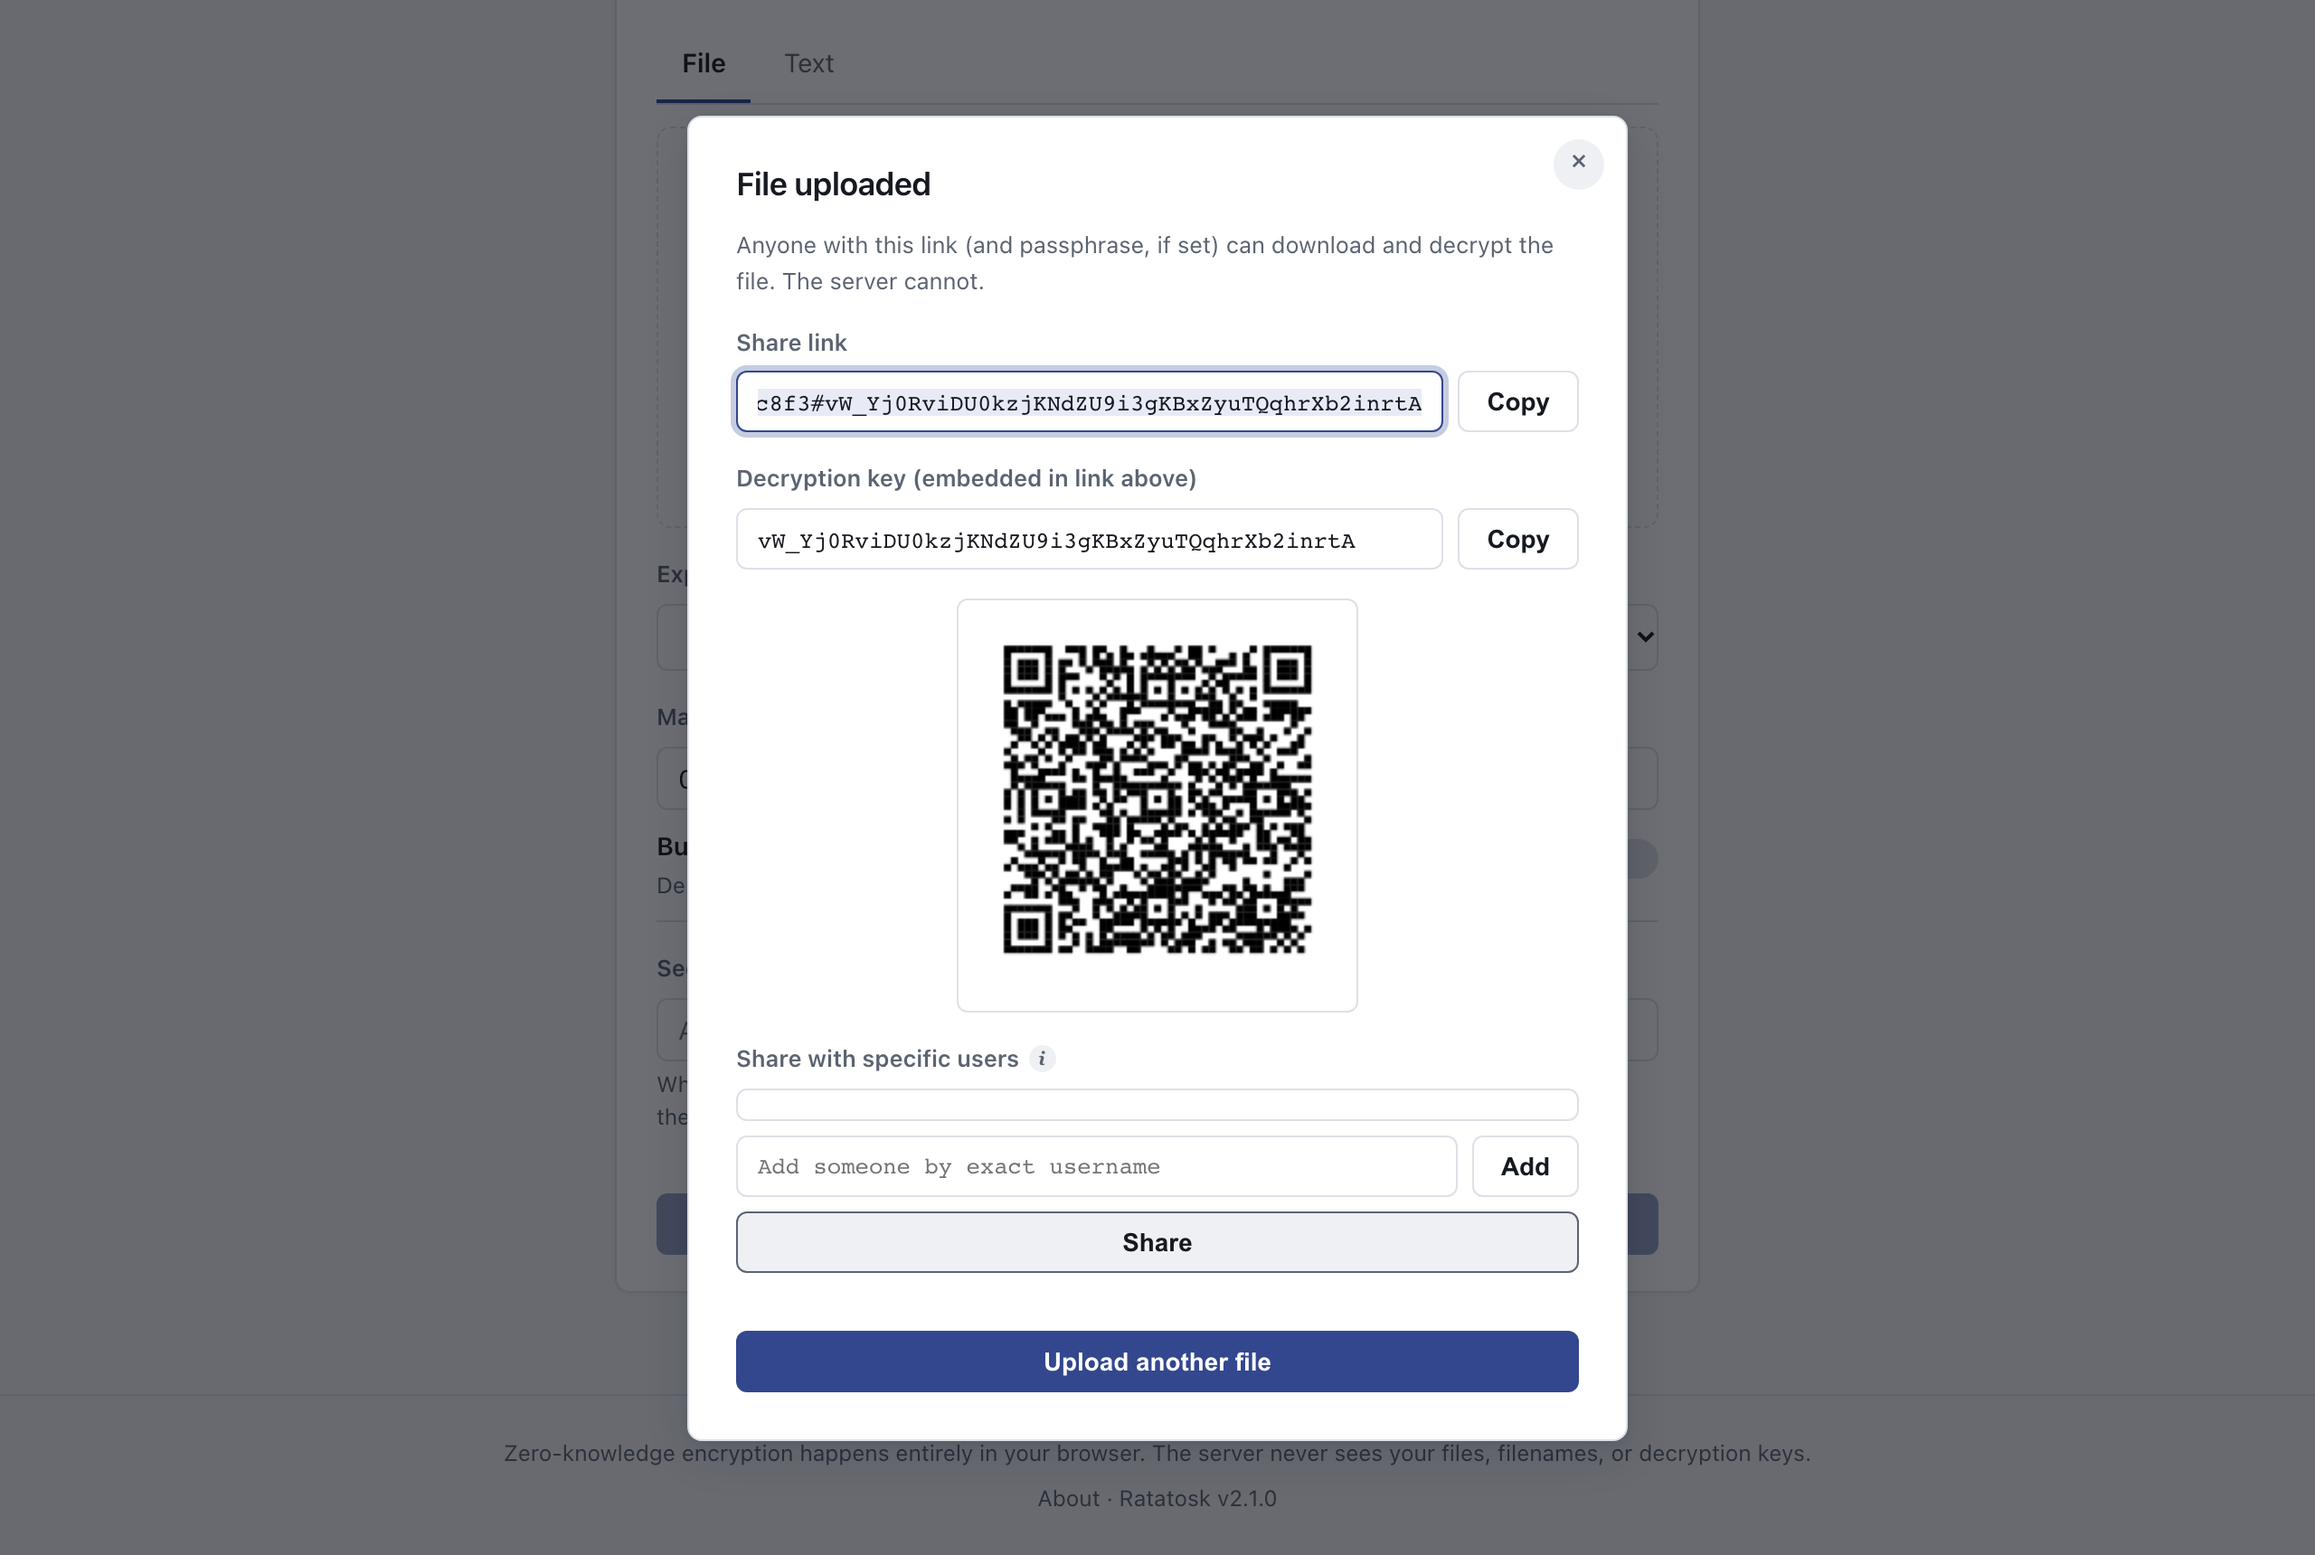
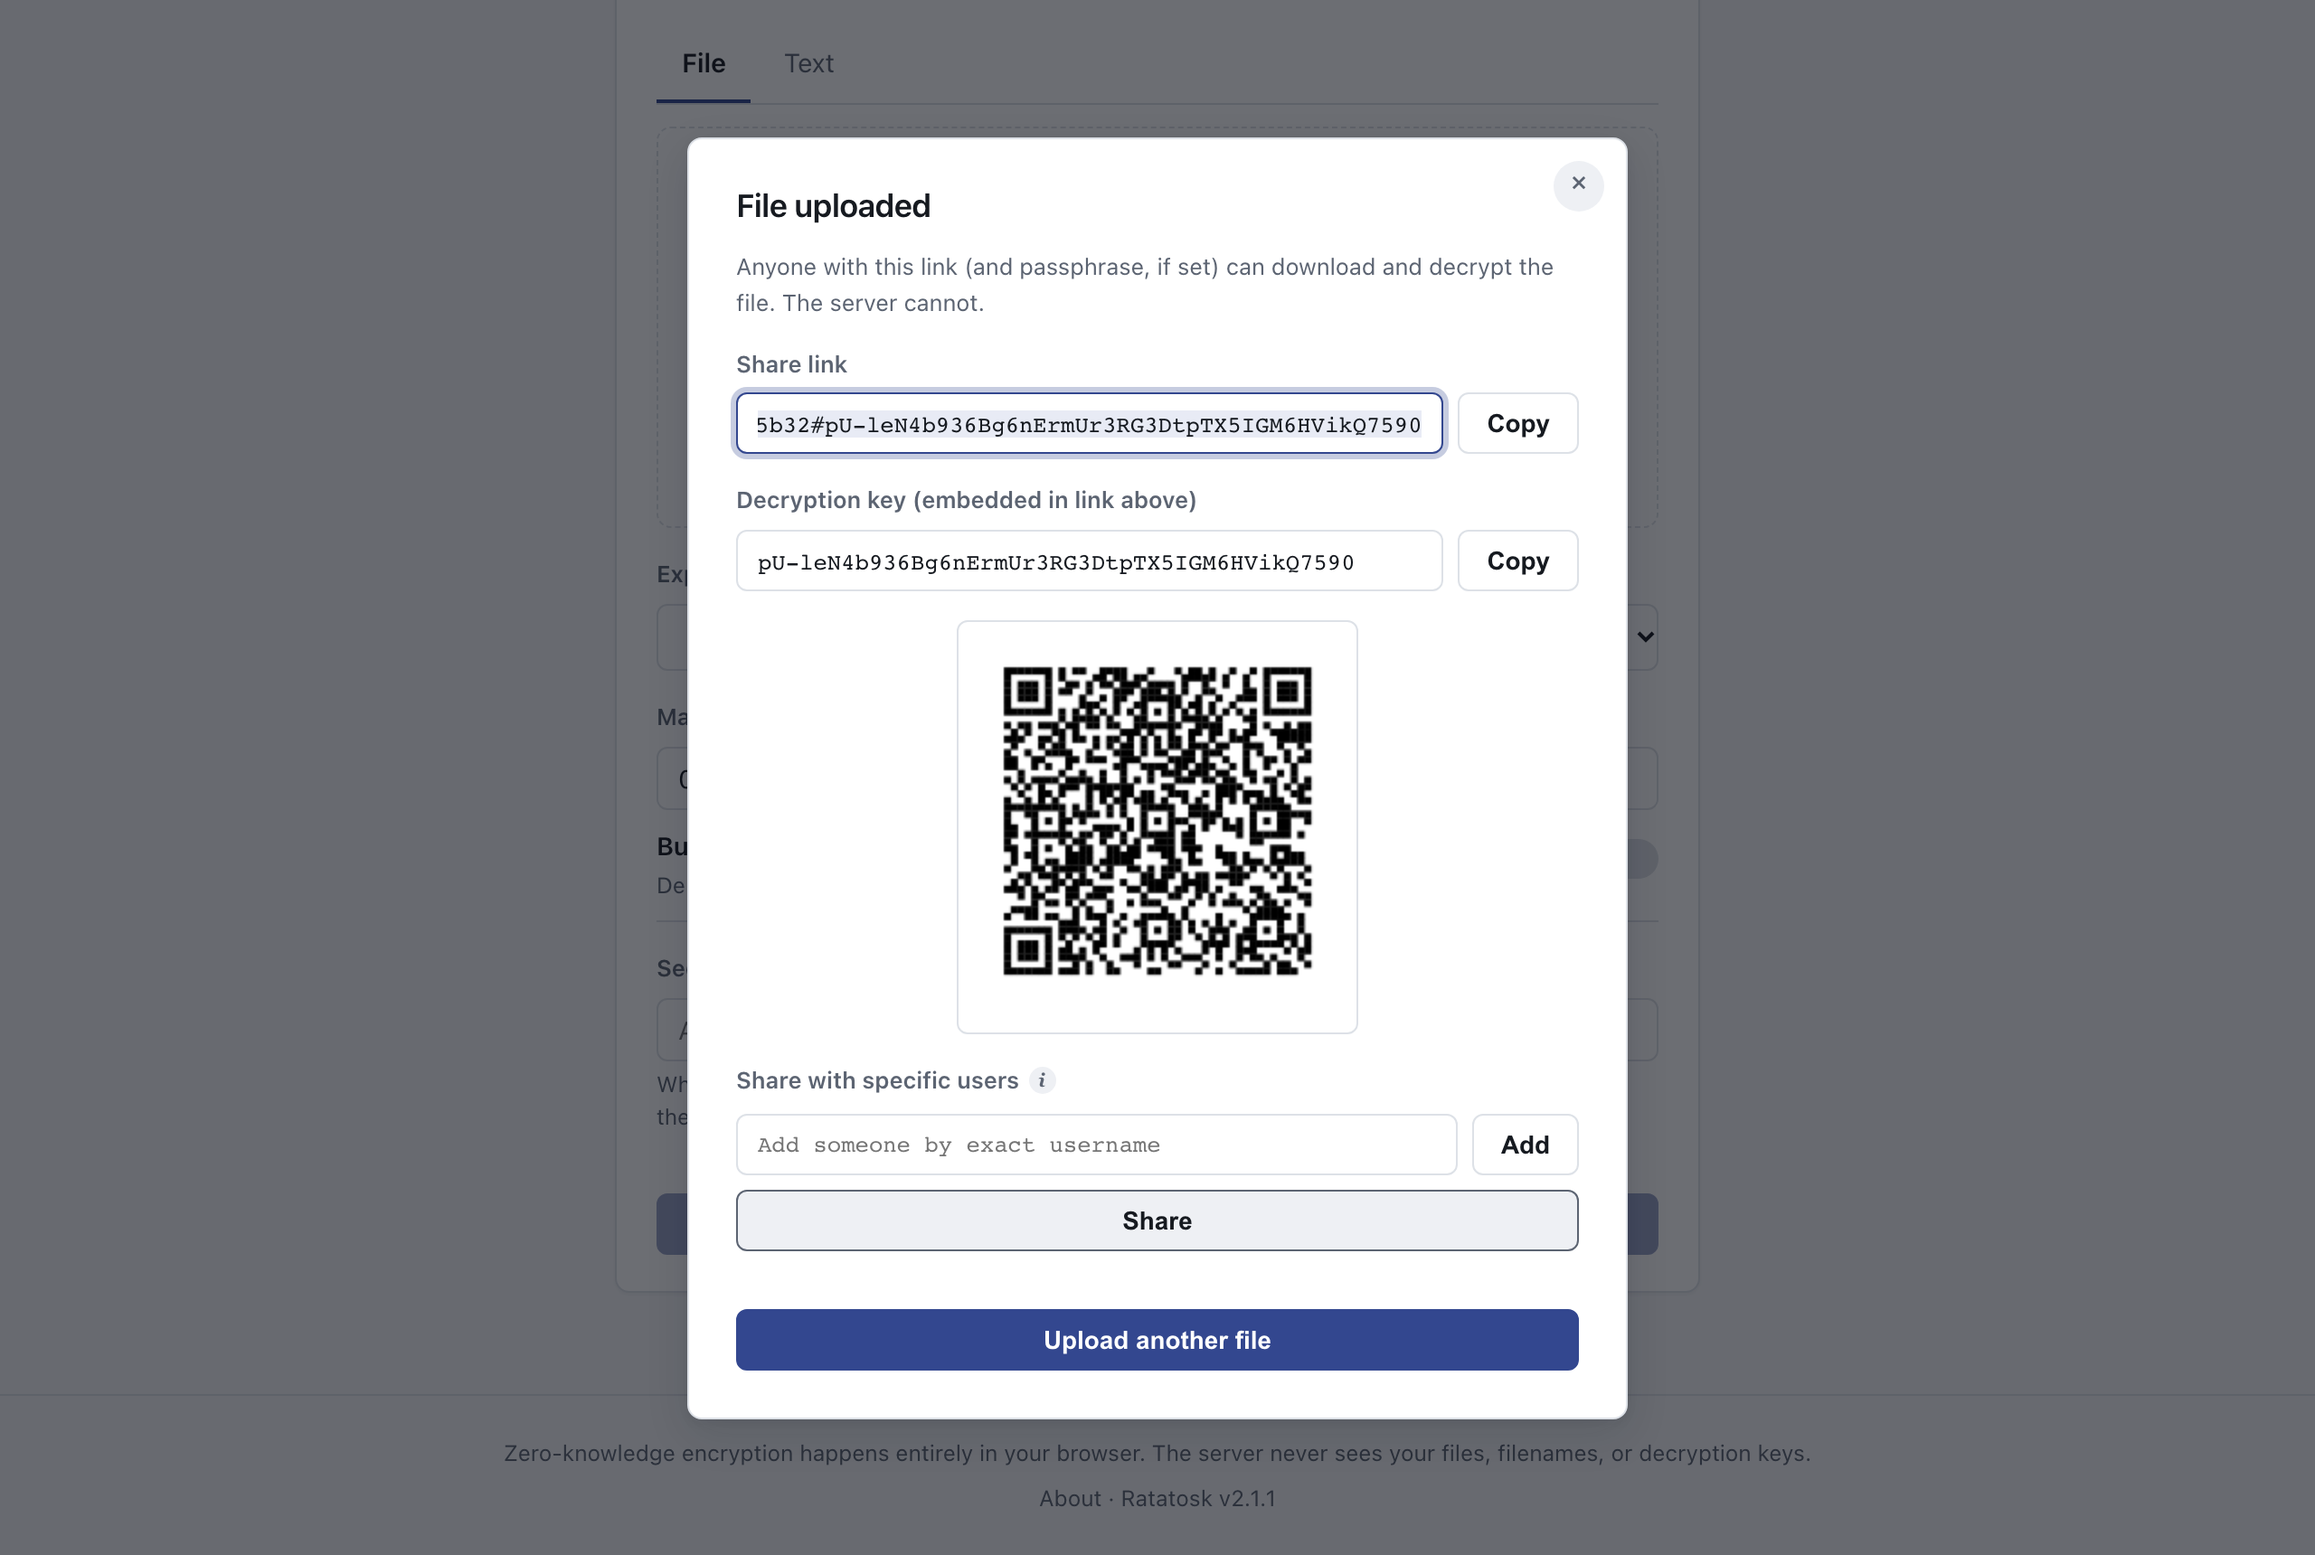
Ratatosk 2.1.1: hide empty user picker, label decrypted text as a message
- Share dialog: the user list is hidden until someone is listed or added by
  exact username, instead of showing an empty box
- Share page: a decrypted text message is titled "Message" and the leftover
  "Decrypt & Download" button is hidden
- Browser tests assert both; README screenshots retaken

Release digest (2.1.1): 439bae11c5ccc087b57ff71e8088224470c581ea37847f4d9391410d71748228

diff --git a/frontend/static/js/share.js b/frontend/static/js/share.js
@@ -10,6 +10,7 @@
   const progressBar = document.getElementById("progressBar");
   const progressLabel = document.getElementById("progressLabel");
   const resultView = document.getElementById("resultView");
+  const heading = document.querySelector("#metaCard h2");
 
   function showAlert(message, type = "danger") {
     window.SDToast.show(message, type);
@@ -66,6 +67,8 @@
       });
       if (result.kind === "text") {
         await window.SDDownload.renderText(result, resultView);
+        heading.textContent = "Message";
+        downloadBtn.hidden = true; // nothing to download - the message is shown on the page
         showAlert("Message decrypted.", "success");
       } else if (result.kind === "bundle") {
         await window.SDDownload.renderBundle(result, resultView);
@@ -75,7 +78,7 @@
         window.SDDownload.saveDecrypted(result);
         showAlert(`Decrypted and saved "${result.name}".`, "success");
       }
-      downloadBtn.style.display = meta.burn_after_download ? "none" : "";
+      if (result.kind !== "text") downloadBtn.style.display = meta.burn_after_download ? "none" : "";
     } catch (e) {
       showAlert(e.message || "Download failed.");
     } finally {

diff --git a/frontend/static/js/upload.js b/frontend/static/js/upload.js
@@ -641,12 +641,16 @@
     label.appendChild(document.createTextNode(" " + u.username));
     row.appendChild(label);
     userPickerList.appendChild(row);
+    userPickerList.hidden = false;
   }
 
   async function setUpShareSection(fileId, urlKey) {
     shareStatus.textContent = "";
     shareWithUsersSection.style.display = "none";
     userPickerList.innerHTML = "";
+    // An empty bordered list looks broken - hide it until someone is in it
+    // (people who opted into the directory, or added by exact username).
+    userPickerList.hidden = true;
     if (!urlKey || !cfg.enable_user_sharing || !window.SDApi.isLoggedIn()) return;
     try {
       // Only users who chose to be discoverable are listed (SEC-020);

diff --git a/frontend/index.html b/frontend/index.html
@@ -163,6 +163,6 @@
 <script src="/static/js/exif-strip.js" integrity="sha384-MF5xMOtLF+VF8UsOGugPmkOcwQDj7L2lXJ6DQO5EV9OiHglA1uTudd0MLW1nPeou"></script>
 <script src="/static/js/vendor/qrcode.js" integrity="sha384-cu2WiLRIjCEHtYQ8Yg1zDr2owpoIebhQYj59x8UtsTFA4gIbsetESlpmcSZItOJx"></script>
 <script src="/static/js/upload-engine.js" integrity="sha384-emUHBncelUds5BpgFggrNqsQ7bcwdXhfjyc4vx/EPArykr6ByQjRH2bsNEpCbXKo"></script>
-<script src="/static/js/upload.js" integrity="sha384-Bm1jGjiCWRcoravjNQHqCqQu1hGQpu+eqK84eKIaICHVOFv6AAV8sg7bEjPzvxuD"></script>
+<script src="/static/js/upload.js" integrity="sha384-FNF4tdTvZA6/wv1lQvlinfzgiZSyMdpF3OHIIIcltliftE7FF+chJOaAePancCm3"></script>
 </body>
 </html>

diff --git a/frontend/share.html b/frontend/share.html
@@ -40,6 +40,6 @@
 <script src="/static/js/toast.js" integrity="sha384-rJf0ghcDDyTSRWuJBh0oIWI5018WpskKKJWc467cQKtx4Ol3ldIt8aL4iZXE6DTG"></script>
 <script src="/static/js/crypto.js" integrity="sha384-//es3w1L/OCgQD0yyyzhMDKSl1a+kJqCTI1gc6f4m/5JgEIC+N592VzrO/5dAexX"></script>
 <script src="/static/js/download-common.js" integrity="sha384-KrPKJhuZwQWfAmk08H0f+aBEqM4qYtZKjBb8xyv3AjMDT2o8UDvOHE1yo3e4RQdt"></script>
-<script src="/static/js/share.js" integrity="sha384-mZjDYjb63wtyCvMM/2kHkyUBZUsu2MzXjrQueYAV9e8x9M/Ud43N6+VShnY2nDRK"></script>
+<script src="/static/js/share.js" integrity="sha384-vijy3Tvc0TmcPsKfJT1aLrY2pK/IVt6qy+ujsQWaQgwrmdC2Eoj59oEcSvuTiVlT"></script>
 </body>
 </html>

diff --git a/tests/e2e/test_e2e_flows.py b/tests/e2e/test_e2e_flows.py
@@ -58,9 +58,12 @@ def test_end_to_end_share_between_accounts(base, browser, tmp_path, live_server)
     expect(alice.locator(".file-queue-item .badge", has_text="…")).to_have_count(0)
     alice.click("#uploadBtn")
     expect(alice.locator("#resultModal")).to_be_visible(timeout=30000)
+    # Nobody has opted into the directory: no empty list box is shown...
+    expect(alice.locator("#userPickerList")).to_be_hidden()
     alice.fill("#shareLookupInput", bob_name)
     alice.click("#shareLookupBtn")
     expect(alice.locator("#userPickerList input:checked")).to_have_count(1)
+    expect(alice.locator("#userPickerList")).to_be_visible()  # ...until someone is added
     alice.click("#shareWithUsersBtn")
     expect(alice.locator("#shareStatus")).to_contain_text("(end-to-end)")
 

diff --git a/tests/e2e/test_browser.py b/tests/e2e/test_browser.py
@@ -133,6 +133,9 @@ def test_text_send_shows_inline(base, page, browser):
     other.goto(link)
     other.click("#downloadBtn")
     expect(other.locator(".text-view")).to_have_text("the wifi password is hunter2")
+    # Labelled as a message, with no download button left over.
+    expect(other.locator("#metaCard h2")).to_have_text("Message")
+    expect(other.locator("#downloadBtn")).to_be_hidden()
 
 
 def test_bundle_one_link_many_files(base, page, browser, tmp_path):

diff --git a/cli/ratatosk.py b/cli/ratatosk.py
@@ -52,7 +52,7 @@ SEGMENT_SIZE = 1024 * 1024
 GCM_TAG_BYTES = 16
 ENC_INFO = b"ratatosk-enc-v1"
 DL_INFO = b"ratatosk-dl-v1"
-__version__ = "2.1.0"  # keep equal to app/version.py (tests/test_version.py checks)
+__version__ = "2.1.1"  # keep equal to app/version.py (tests/test_version.py checks)
 USER_AGENT = f"ratatosk-cli/{__version__}"
 
 

diff --git a/app/version.py b/app/version.py
@@ -5,4 +5,4 @@ break compatibility (file format, API, configuration), MINOR for new
 features, PATCH for fixes. Record every release in CHANGELOG.md. The CLI
 (cli/ratatosk.py) carries the same number; a test keeps them in sync.
 """
-__version__ = "2.1.0"
+__version__ = "2.1.1"

diff --git a/CHANGELOG.md b/CHANGELOG.md
@@ -12,6 +12,20 @@ Finding IDs (e.g. SEC-001) refer to the engineering audit in `docs/AUDIT.md`.
 
 ## [Unreleased]
 
+## [2.1.1] - 2026-11-01
+
[1 lines of base64/hex data omitted]
+
+### Fixed
+- The "Share with specific users" panel no longer shows an empty list box
+  when nobody has opted into the directory; the list appears once someone is
+  listed or added by exact username.
+- A decrypted text message is now labelled "Message", and the leftover
+  "Decrypt & Download" button is hidden.
+
+### Added
+- Screenshots in the README, regenerated with `python docs/screenshots/capture.py`.
+
 ## [2.1.0] - 2026-11-01
 
[1 lines of base64/hex data omitted]

diff --git a/README.md b/README.md
@@ -6,7 +6,7 @@
 
 *Formerly "SecureDrop". Renamed in 2.0 to avoid confusion with the Freedom of the Press Foundation's whistleblower platform of that name. See [CHANGELOG.md](CHANGELOG.md).*
 
-**Current version:** 2.1.0 (see [Versioning](#versioning)).
+**Current version:** 2.1.1 (see [Versioning](#versioning)).
 
 - **Zero-knowledge:** link keys travel in the URL `#fragment`, which browsers never send. Passphrases never leave the browser at all: the server only checks a token derived from them, which can't decrypt anything.
 - **Built for large files:** streaming, segmented encryption keeps memory flat in both directions. Uploads resume after a dropped connection or a page reload, and big downloads stream straight to disk.
